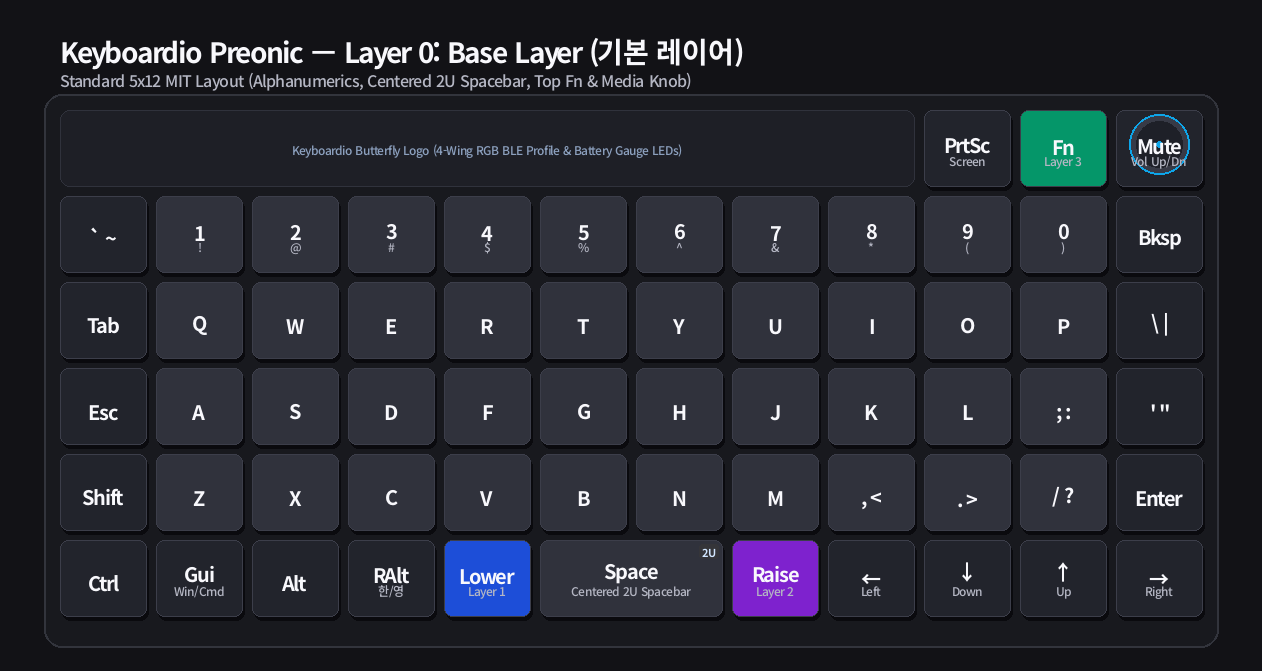
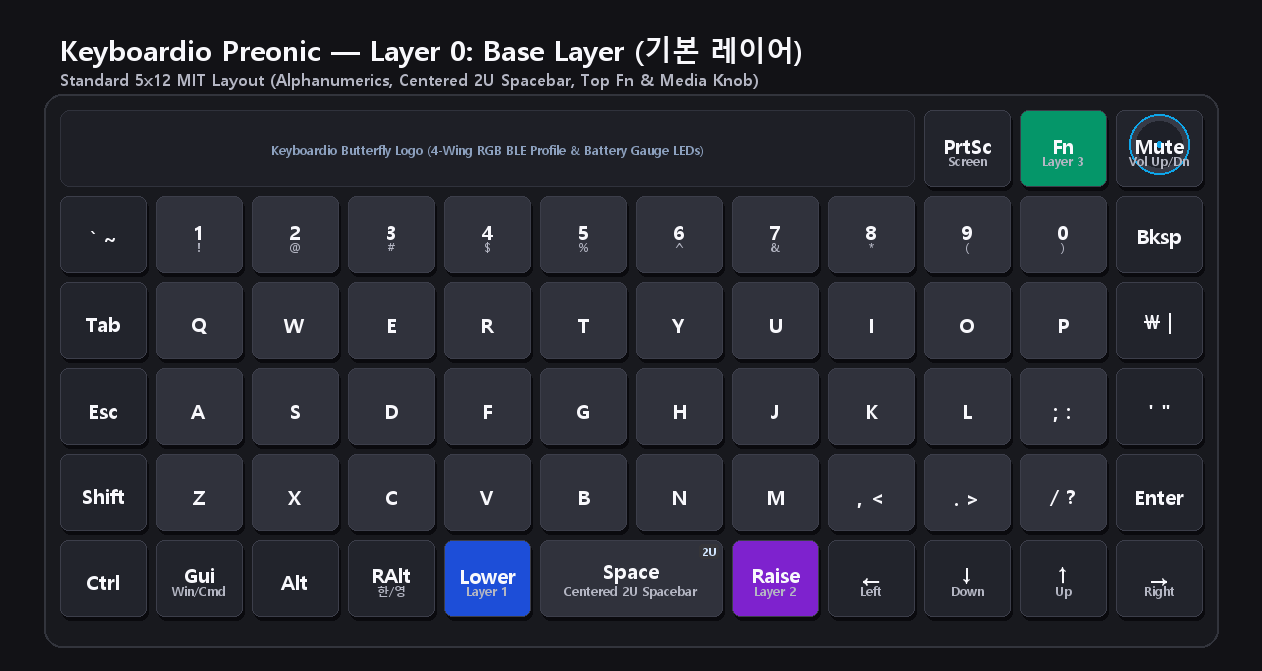
feat: suppress boot chime on sleep wakeup, add Fn+S master sound toggle with retention

diff --git a/src/preonic_sound.c b/src/preonic_sound.c
@@ -10,6 +10,11 @@
 #include <zephyr/init.h>
 #include <zephyr/logging/log.h>
 
+#if defined(CONFIG_SOC_FAMILY_NRF) || defined(NRF52840_XXAA) || defined(NRF_POWER)
+#include <helpers/nrfx_reset_reason.h>
+#include <hal/nrf_power.h>
+#endif
+
 #include <zmk/activity.h>
 #include <zmk/event_manager.h>
 #include <zmk/events/activity_state_changed.h>
@@ -28,9 +33,10 @@ LOG_MODULE_DECLARE(zmk, CONFIG_ZMK_LOG_LEVEL);
 
 #define SPEAKER_PWM_CHANNEL 0
 
-// Keymap indices for Fn + C toggle
+// Keymap indices for Fn toggles
 #define FN_LAYER_INDEX 3
 #define TRI_LAYER_INDEX 4
+#define S_KEY_POSITION 29
 #define C_KEY_POSITION 42
 
 enum sound_state {
@@ -51,8 +57,60 @@ static enum sound_state current_sound_state = SOUND_STATE_IDLE;
 static struct k_work_delayable sound_work;
 static struct k_work_delayable boot_coin_work;
 
+static bool sound_master_enabled = IS_ENABLED(CONFIG_PREONIC_SOUND_MASTER_DEFAULT);
 static bool clicky_enabled = IS_ENABLED(CONFIG_PREONIC_SOUND_CLICKY_DEFAULT);
 static bool cold_boot_done = false;
+
+#if defined(NRF_POWER)
+#define GPREGRET_MAGIC_MASK  0xF0
+#define GPREGRET_MAGIC_VAL   0x50 // Magic tag 'S' (Sound)
+#define GPREGRET_SOUND_BIT   (1U << 0)
+#define GPREGRET_CLICKY_BIT  (1U << 1)
+
+static void save_sound_state(void) {
+    uint8_t val = GPREGRET_MAGIC_VAL;
+    if (sound_master_enabled) {
+        val |= GPREGRET_SOUND_BIT;
+    }
+    if (clicky_enabled) {
+        val |= GPREGRET_CLICKY_BIT;
+    }
+    nrf_power_gpregret_set(NRF_POWER, 1, val);
+}
+
+static void load_sound_state(void) {
+    uint32_t reg = nrf_power_gpregret_get(NRF_POWER, 1);
+    if ((reg & GPREGRET_MAGIC_MASK) == GPREGRET_MAGIC_VAL) {
+        sound_master_enabled = (reg & GPREGRET_SOUND_BIT) != 0;
+        clicky_enabled = (reg & GPREGRET_CLICKY_BIT) != 0;
+    } else {
+        sound_master_enabled = IS_ENABLED(CONFIG_PREONIC_SOUND_MASTER_DEFAULT);
+        clicky_enabled = IS_ENABLED(CONFIG_PREONIC_SOUND_CLICKY_DEFAULT);
+        save_sound_state();
+    }
+}
+
+static inline bool is_wake_from_system_off(void) {
+    uint32_t reason = nrfx_reset_reason_get();
+    return (reason & (NRFX_RESET_REASON_OFF_MASK
+#if NRFX_RESET_REASON_HAS_LPCOMP
+                    | NRFX_RESET_REASON_LPCOMP_MASK
+#endif
+#if NRFX_RESET_REASON_HAS_NFC
+                    | NRFX_RESET_REASON_NFC_MASK
+#endif
+           )) != 0;
+}
+#else
+static inline void save_sound_state(void) {}
+static inline void load_sound_state(void) {
+    sound_master_enabled = IS_ENABLED(CONFIG_PREONIC_SOUND_MASTER_DEFAULT);
+    clicky_enabled = IS_ENABLED(CONFIG_PREONIC_SOUND_CLICKY_DEFAULT);
+}
+static inline bool is_wake_from_system_off(void) {
+    return false;
+}
+#endif
 
 static inline int set_tone(uint32_t freq_hz) {
     if (!device_is_ready(pwm_dev)) {
@@ -111,7 +169,7 @@ void preonic_sound_stop(void) {
 }
 
 void preonic_sound_play_tone(uint32_t freq_hz, uint32_t duration_ms) {
-    if (!device_is_ready(pwm_dev)) {
+    if (!sound_master_enabled || !device_is_ready(pwm_dev)) {
         return;
     }
     if (freq_hz == 0 || duration_ms == 0) {
@@ -124,7 +182,7 @@ void preonic_sound_play_tone(uint32_t freq_hz, uint32_t duration_ms) {
 }
 
 void preonic_sound_play_coin(void) {
-    if (!device_is_ready(pwm_dev)) {
+    if (!sound_master_enabled || !device_is_ready(pwm_dev)) {
         return;
     }
     // 1st note of Mario Coin: B5 (988Hz) for 65ms
@@ -134,7 +192,7 @@ void preonic_sound_play_coin(void) {
 }
 
 void preonic_sound_play_low_battery_warning(void) {
-    if (!device_is_ready(pwm_dev)) {
+    if (!sound_master_enabled || !device_is_ready(pwm_dev)) {
         return;
     }
     // 1st beep: 1500Hz for 100ms
@@ -144,7 +202,7 @@ void preonic_sound_play_low_battery_warning(void) {
 }
 
 void preonic_sound_play_click(void) {
-    if (!clicky_enabled || !device_is_ready(pwm_dev)) {
+    if (!sound_master_enabled || !clicky_enabled || !device_is_ready(pwm_dev)) {
         return;
     }
     // Do not interrupt Mario Coin or Low Battery warning sequence
@@ -158,9 +216,37 @@ void preonic_sound_play_click(void) {
     k_work_reschedule(&sound_work, K_MSEC(CONFIG_PREONIC_SOUND_CLICK_DURATION_MS));
 }
 
+bool preonic_sound_toggle_master(void) {
+    sound_master_enabled = !sound_master_enabled;
+    save_sound_state();
+
+    if (!device_is_ready(pwm_dev)) {
+        return sound_master_enabled;
+    }
+
+    current_sound_state = SOUND_STATE_TOGGLE_TONE;
+    if (sound_master_enabled) {
+        // High confirmation tone for ON (2200Hz, 80ms)
+        set_tone(2200);
+    } else {
+        // Low confirmation tone for OFF (1000Hz, 60ms)
+        set_tone(1000);
+    }
+    k_work_reschedule(&sound_work, K_MSEC(sound_master_enabled ? 80 : 60));
+
+    LOG_INF("Preonic master sound toggled: %s", sound_master_enabled ? "ON" : "OFF");
+    return sound_master_enabled;
+}
+
+bool preonic_sound_is_master_enabled(void) {
+    return sound_master_enabled;
+}
+
 bool preonic_sound_toggle_clicky(void) {
     clicky_enabled = !clicky_enabled;
-    if (!device_is_ready(pwm_dev)) {
+    save_sound_state();
+
+    if (!sound_master_enabled || !device_is_ready(pwm_dev)) {
         return clicky_enabled;
     }
 
@@ -204,7 +290,14 @@ static int preonic_sound_event_listener(const zmk_event_t *eh) {
             return 0;
         }
 
-        // Check for Fn + C toggle keypress
+        // Check for Fn + S toggle keypress (Master Sound On/Off)
+        if (pos_ev->position == S_KEY_POSITION &&
+            (zmk_keymap_layer_active(FN_LAYER_INDEX) || zmk_keymap_layer_active(TRI_LAYER_INDEX))) {
+            preonic_sound_toggle_master();
+            return 0;
+        }
+
+        // Check for Fn + C toggle keypress (Audio Clicky On/Off)
         if (pos_ev->position == C_KEY_POSITION &&
             (zmk_keymap_layer_active(FN_LAYER_INDEX) || zmk_keymap_layer_active(TRI_LAYER_INDEX))) {
             preonic_sound_toggle_clicky();
@@ -227,6 +320,8 @@ static int preonic_sound_init(void) {
     k_work_init_delayable(&sound_work, sound_work_handler);
     k_work_init_delayable(&boot_coin_work, boot_coin_work_handler);
 
+    load_sound_state();
+
     if (!device_is_ready(pwm_dev)) {
         LOG_WRN("Preonic sound PWM device not ready");
         return 0;
@@ -236,7 +331,8 @@ static int preonic_sound_init(void) {
     set_tone(0);
 
 #if IS_ENABLED(CONFIG_PREONIC_SOUND_COIN_BOOT)
-    if (!cold_boot_done) {
+    // Only play Mario coin on cold boot, NEVER when waking from System OFF sleep
+    if (!is_wake_from_system_off() && sound_master_enabled && !cold_boot_done) {
         cold_boot_done = true;
         // Schedule Mario coin chime 600ms after boot
         k_work_schedule(&boot_coin_work, K_MSEC(600));

diff --git a/scripts/generate_keymap_images.py b/scripts/generate_keymap_images.py
@@ -32,16 +32,31 @@ COLOR_BLE = (2, 132, 199)          # Sky Blue (Bluetooth & Output)
 COLOR_DANGER = (220, 38, 38)       # Red (Bootloader, BT Clear)
 COLOR_TRANS = (26, 27, 32)         # Transparent / unused on layer
 
-FONT_PATH = "/usr/share/fonts/google-noto-sans-cjk-vf-fonts/NotoSansCJK-VF.ttc"
+FONT_PATHS = [
+    "/usr/share/fonts/google-noto-sans-cjk-vf-fonts/NotoSansCJK-VF.ttc",
+    "C:/Windows/Fonts/malgunbd.ttf",
+    "C:/Windows/Fonts/malgun.ttf",
+    "C:/Windows/Fonts/segoeui.ttf",
+    "C:/Windows/Fonts/arial.ttf",
+]
 
 def get_font(size, weight="Bold"):
-    f = ImageFont.truetype(FONT_PATH, size, index=1)
-    if hasattr(f, "set_variation_by_name"):
-        try:
-            f.set_variation_by_name(weight)
-        except Exception:
-            pass
-    return f
+    for p in FONT_PATHS:
+        if os.path.exists(p):
+            try:
+                if p.endswith(".ttc"):
+                    f = ImageFont.truetype(p, size, index=1)
+                    if hasattr(f, "set_variation_by_name"):
+                        try:
+                            f.set_variation_by_name(weight)
+                        except Exception:
+                            pass
+                    return f
+                else:
+                    return ImageFont.truetype(p, size)
+            except Exception:
+                continue
+    return ImageFont.load_default()
 
 FONT_TITLE = get_font(28, "Bold")
 FONT_SUBTITLE = get_font(16, "Medium")
@@ -383,10 +398,10 @@ func_keys = [
     {"col": 9, "row": 2, "main": "▽", "bg": COLOR_TRANS, "fg": TEXT_DIM},
     {"col": 10, "row": 2, "main": "Type %", "sub": "Auto \"XX%\"", "bg": COLOR_FEATURE, "tag": "Fn+P"},
     {"col": 11, "row": 2, "main": "▽", "bg": COLOR_TRANS, "fg": TEXT_DIM},
-    # Row 3
+    # Row 3 (Master Sound Toggle on S)
     {"col": 0, "row": 3, "main": "▽", "bg": COLOR_TRANS, "fg": TEXT_DIM},
     {"col": 1, "row": 3, "main": "▽", "bg": COLOR_TRANS, "fg": TEXT_DIM},
-    {"col": 2, "row": 3, "main": "▽", "bg": COLOR_TRANS, "fg": TEXT_DIM},
+    {"col": 2, "row": 3, "main": "Sound", "sub": "Master On/Off", "bg": COLOR_FEATURE, "tag": "Fn+S"},
     {"col": 3, "row": 3, "main": "▽", "bg": COLOR_TRANS, "fg": TEXT_DIM},
     {"col": 4, "row": 3, "main": "▽", "bg": COLOR_TRANS, "fg": TEXT_DIM},
     {"col": 5, "row": 3, "main": "▽", "bg": COLOR_TRANS, "fg": TEXT_DIM},
@@ -423,12 +438,14 @@ func_keys = [
     {"col": 11, "row": 5, "main": "BT Clear", "sub": "Clear Profile", "bg": COLOR_DANGER},
 ]
 
-out_dir = "/root/samake-preonic-config/docs/images"
+script_dir = os.path.dirname(os.path.abspath(__file__))
+repo_dir = os.path.dirname(script_dir)
+out_dir = os.path.join(repo_dir, "docs", "images")
 os.makedirs(out_dir, exist_ok=True)
 
-render_layer("Keyboardio Preonic — Layer 0: Base Layer (기본 레이어)", "Standard 5x12 MIT Layout (Alphanumerics, Centered 2U Spacebar, Top Fn & Media Knob)", base_keys, f"{out_dir}/layer0_base.png")
-render_layer("Keyboardio Preonic — Layer 1: Lower Layer (로워 레이어)", "Numeric Keypad (Tenkeyless Numpad on Right Hand) & Navigation Keys (Home, End, PgUp, PgDn)", lower_keys, f"{out_dir}/layer1_lower.png")
-render_layer("Keyboardio Preonic — Layer 2: Raise Layer (레이즈 레이어)", "Programming Symbols & Full Mouse Emulation (Move, Click, Wheel Scroll)", raise_keys, f"{out_dir}/layer2_raise.png")
-render_layer("Keyboardio Preonic — Layer 3: Function & Tri Layer (펑션 레이어)", "Hardware Controls: Bluetooth Profiles, Audio Clicky (Fn+C), Battery Gauge (Fn+B), Typer (Fn+P), Bootloader", func_keys, f"{out_dir}/layer3_func.png")
+render_layer("Keyboardio Preonic — Layer 0: Base Layer (기본 레이어)", "Standard 5x12 MIT Layout (Alphanumerics, Centered 2U Spacebar, Top Fn & Media Knob)", base_keys, os.path.join(out_dir, "layer0_base.png"))
+render_layer("Keyboardio Preonic — Layer 1: Lower Layer (로워 레이어)", "Numeric Keypad (Tenkeyless Numpad on Right Hand) & Navigation Keys (Home, End, PgUp, PgDn)", lower_keys, os.path.join(out_dir, "layer1_lower.png"))
+render_layer("Keyboardio Preonic — Layer 2: Raise Layer (레이즈 레이어)", "Programming Symbols & Full Mouse Emulation (Move, Click, Wheel Scroll)", raise_keys, os.path.join(out_dir, "layer2_raise.png"))
+render_layer("Keyboardio Preonic — Layer 3: Function & Tri Layer (펑션 레이어)", "Hardware Controls: Bluetooth Profiles, Sound On/Off (Fn+S), Audio Clicky (Fn+C), Battery Gauge (Fn+B), Typer (Fn+P), Bootloader", func_keys, os.path.join(out_dir, "layer3_func.png"))
 
-print("All 4 layer images successfully re-generated with NotoSansCJK Bold!")
+print(f"All 4 layer images successfully re-generated into {out_dir}!")

diff --git a/src/butterfly_status.c b/src/butterfly_status.c
@@ -10,6 +10,11 @@
 #include <zephyr/init.h>
 #include <zephyr/logging/log.h>
 
+#if defined(CONFIG_SOC_FAMILY_NRF) || defined(NRF52840_XXAA) || defined(NRF_POWER)
+#include <helpers/nrfx_reset_reason.h>
+#include <hal/nrf_power.h>
+#endif
+
 #include <zmk/activity.h>
 #include <zmk/battery.h>
 #include <zmk/ble.h>
@@ -347,9 +352,31 @@ ZMK_SUBSCRIPTION(butterfly_status, zmk_battery_state_changed);
 
 static int butterfly_init(void) {
     k_work_init_delayable(&butterfly_work, butterfly_work_handler);
+
+    bool wake_from_off = false;
+#if defined(NRF_POWER) || defined(NRFX_RESET_REASON_H)
+    uint32_t reason = nrfx_reset_reason_get();
+    if (reason & (NRFX_RESET_REASON_OFF_MASK
+#if NRFX_RESET_REASON_HAS_LPCOMP
+                | NRFX_RESET_REASON_LPCOMP_MASK
+#endif
+#if NRFX_RESET_REASON_HAS_NFC
+                | NRFX_RESET_REASON_NFC_MASK
+#endif
+       )) {
+        wake_from_off = true;
+    }
+    // Clear OFF reset reason now that all init routines have completed
+    nrfx_reset_reason_clear(NRFX_RESET_REASON_OFF_MASK);
+#endif
+
 #if CONFIG_BUTTERFLY_BOOT_ANIM_MS > 0
-    boot_anim_done = false;
-    boot_start_time = k_uptime_get();
+    if (wake_from_off) {
+        boot_anim_done = true;
+    } else {
+        boot_anim_done = false;
+        boot_start_time = k_uptime_get();
+    }
 #else
     boot_anim_done = true;
 #endif

diff --git a/include/preonic_sound.h b/include/preonic_sound.h
@@ -41,6 +41,21 @@ void preonic_sound_play_low_battery_warning(void);
 void preonic_sound_play_click(void);
 
 /**
+ * @brief Toggle master sound state (enabled/disabled).
+ *
+ * When master sound is disabled, all audio (clicky, chimes, beeps) is muted.
+ * When enabled, plays a rising confirmation tone.
+ *
+ * @return Current master sound state after toggle (true: enabled, false: disabled)
+ */
+bool preonic_sound_toggle_master(void);
+
+/**
+ * @brief Check if master sound is currently enabled.
+ */
+bool preonic_sound_is_master_enabled(void);
+
+/**
  * @brief Toggle audio clicky state (enabled/disabled).
  *
  * Emits a high confirmation beep (2400Hz) when enabled,

diff --git a/README.md b/README.md
@@ -24,7 +24,7 @@ Custom ZMK firmware configuration specifically developed for the **Keyboardio Pr
 * **Low-Latency Debouncing**: Optimized debouncing (1 ms press / 5 ms release) for rapid response and debounce error prevention.
 * **Full NKRO**: N-Key Rollover enabled for simultaneous keypress accuracy.
 * **RGB Underglow**: Keyboardio butterfly logo illuminated on startup with signature cyan breathing effect (`HSV: 195, 100, 100`).
-* **Piezo Sound System**: Hardware PWM-driven onboard piezo buzzer playing a signature Super Mario coin chime on cold boot and crisp 5ms audio clicky feedback on keystrokes.
+* **Piezo Sound System**: Hardware PWM-driven onboard piezo buzzer playing a signature Super Mario coin chime on cold boot (filtered out on sleep wakeups), master sound mute/unmute toggle (`Fn + S`), and crisp 5ms audio clicky feedback on keystrokes (`Fn + C`).
 * **Battery Monitoring System**:
   * **`Fn + B` 4-Level Butterfly Gauge**: Displays battery level across the 4 butterfly wing LEDs for 3 seconds (75-100%: 4 Green, 50-74%: 3 Lime Green, 25-49%: 2 Orange, 0-24%: 1 Red). If battery is <= 15%, simultaneously emits a warning beep.
   * **Smart Low-Battery Alert**: Automatically sounds a 1500Hz double-beep warning once when battery first drops to <= 15% during use. Suppresses repeated alerts (only beeps on manual `Fn + B` afterwards) and resets once recharged to >= 20%.
@@ -61,6 +61,7 @@ Custom ZMK firmware configuration specifically developed for the **Keyboardio Pr
   * `Grave` position: `&out OUT_TOG` (Toggle between USB and BLE output)
   * `1` ~ `4`: `&bt BT_SEL 0` ~ `&bt BT_SEL 3` (Select Bluetooth profiles 0 to 3, max 4 devices)
 * **Alphabet Rows**:
+  * `S` position: **Master Sound Toggle** (`Fn + S` toggles all piezo sound on/off; state retained across sleep)
   * `Z` position: `&studio_unlock` (Unlock ZMK Studio)
   * `C` position: **Audio Clicky Toggle** (`Fn + C` toggles typing click sound on/off; high tone for ON, low tone for OFF)
   * `B` position: **Butterfly Battery Gauge** (`Fn + B` shows 4-level LED battery gauge while held; beeps if <= 15%)
@@ -123,7 +124,7 @@ The Keyboardio Preonic features a distinctive butterfly logo illuminated by 4 ad
 * **초저지연 디바운스**: 1ms 누름 / 5ms 릴리즈 설정으로 키 입력 반응성 극대화 및 채터링 방지.
 * **NKRO 완벽 지원**: 무한 동시 입력(N-Key Rollover) 지원.
 * **Keyboardio 나비 로고 RGB 언더글로우**: 부팅 시 시그니처 스카이블루 숨쉬기(Cyan Breathing, `HSV: 195, 100, 100`) 효과 자동 점등.
-* **피에조 사운드 시스템 (Piezo Sound)**: 하드웨어 PWM0 기반으로 부팅 시 슈퍼마리오 코인 획득 멜로디를 재생하며, 타이핑 시 5ms 초저지연 기계식 오디오 클릭키(Audio Clicky) 사운드 제공.
+* **피에조 사운드 시스템 (Piezo Sound)**: 하드웨어 PWM0 기반으로 순수 콜드 부팅 시에만 슈퍼마리오 코인 획득 멜로디를 재생(딥슬립 절전모드 복귀 시에는 재생 억제), 마스터 사운드 On/Off 토글(`Fn + S`), 및 타이핑 시 5ms 초저지연 기계식 오디오 클릭키(`Fn + C`) 사운드 제공.
 * **배터리 상태 모니터링 시스템**:
   * **`Fn + B` 나비 날개 4단계 LED 게이지**: 3초간 4개 나비 날개 LED로 배터리 잔량을 시각화 표시 (75~100%: 4개 초록, 50~74%: 3개 연두, 25~49%: 2개 주황, 0~24%: 1개 빨강). 잔량이 15% 이하인 경우 1500Hz 경고 비프음 동시 출력.
   * **스마트 저배터리 경고음**: 사용 중 배터리가 최초 15% 이하로 떨어지면 1500Hz 더블 비프음으로 1회 자동 경고. 이후 반복 비프를 억제하고 수동(`Fn + B`) 확인 시에만 경고음을 울리며, 충전하여 20% 이상 도달 시 플래그 자동 리셋.
@@ -160,6 +161,7 @@ The Keyboardio Preonic features a distinctive butterfly logo illuminated by 4 ad
   * `Grave` 자리: **`&out OUT_TOG`** (USB 유선 / 블루투스 무선 출력 모드 전환)
   * `1 ~ 4` 자리: **`&bt BT_SEL 0 ~ 3`** (블루투스 기기 프로필 0번 ~ 3번, 총 4대 선택)
 * **알파벳 행**:
+  * `S` 자리: **키보드 전체 사운드 On/Off 마스터 토글** (`Fn + S` 입력 시 모든 피에조 사운드 마스터 음소거/해제 토글, 딥슬립 후에도 설정 유지)
   * `Z` 자리: **`&studio_unlock`** (ZMK Studio 잠금 해제)
   * `C` 자리: **오디오 클릭키 On/Off 토글** (`Fn + C` 입력 시 타이핑 클릭 소리를 켜고 끄며, 켤 때 높은 톤 / 끌 때 낮은 톤 확인음 제공)
   * `B` 자리: **나비 배터리 게이지** (`Fn + B` 누르고 있는 동안 4단계 나비 LED 잔량 게이지 표시, 15% 이하 시 경고 비프음 출력)
